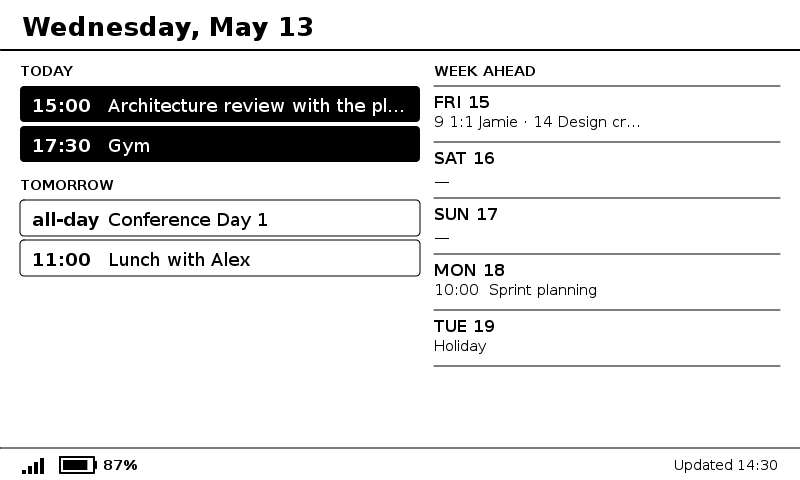
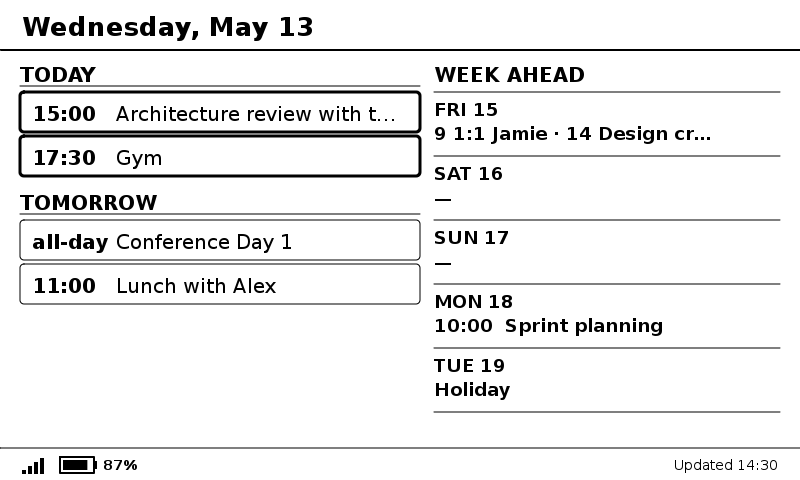
Update styling

Changed region(s): [[0.0, 0.125, 0.9688, 0.875]]

diff --git a/server/internal/calendar/render.go b/server/internal/calendar/render.go
@@ -37,32 +37,35 @@ const (
 
 	// Font sizes.
 	fontSizeHeader      = 26.0
-	fontSizeSectionHead = 14.0
-	fontSizeBody        = 18.0
-	fontSizeWeekDay     = 16.0
-	fontSizeWeekSummary = 15.0
-	fontSizeWeekMore    = 12.0
+	fontSizeSectionHead = 20.0
+	fontSizeBody        = 20.0
+	fontSizeWeekDay     = 18.0
+	fontSizeWeekSummary = 18.0
+	fontSizeWeekMore    = 14.0
 	fontSizeFooter      = 14.0
 	fontDPI             = 72.0
 
 	// Chip (event pill) geometry.
-	chipH            = 36.0
-	chipGap          = 4.0
-	chipCorner       = 4.0
-	chipTimeX        = 12.0
-	chipTitleX       = 88.0
-	chipTextOffY     = 8.0
+	chipH             = 40.0
+	chipGap           = 4.0
+	chipCorner        = 4.0
+	chipTimeX         = 12.0
+	chipTitleX        = 96.0
+	chipTextOffY      = 9.0
 	chipTitleRightPad = 12.0
+	todayChipLineW    = 3.0
+	tomorrowChipLineW = 1.0
 
 	// Section spacing.
-	sectionGapY     = 24.0
-	tomorrowGap     = 10.0
-	weekHeaderGap   = 24.0
-	weekRowH        = 56.0
+	sectionGapY      = 30.0
+	sectionHeadRuleY = 24.0
+	tomorrowGap      = 10.0
+	weekHeaderGap    = 30.0
+	weekRowH        = 64.0
 	weekTextOffY    = 6.0
-	weekDashOffY    = 30.0
-	weekSummaryOffY = 26.0
-	weekMoreOffY    = 44.0
+	weekDashOffY    = 32.0
+	weekSummaryOffY = 30.0
+	weekMoreOffY    = 50.0
 
 	// Footer constants.
 	footerH           = 32.0
@@ -344,6 +347,9 @@ func drawTodayPanel(dc *gg.Context, d displayData, startY float64) float64 {
 	y := startY
 	dc.SetFontFace(face(fontSizeSectionHead, true))
 	drawTopLeft(dc, "TODAY", leftX, y)
+	dc.SetLineWidth(1)
+	dc.DrawLine(leftX, y+sectionHeadRuleY, leftX+leftW, y+sectionHeadRuleY)
+	dc.Stroke()
 	y += sectionGapY
 	if len(d.Today) == 0 {
 		dc.SetFontFace(face(fontSizeBody, false))
@@ -351,7 +357,7 @@ func drawTodayPanel(dc *gg.Context, d displayData, startY float64) float64 {
 		y += chipH + chipGap
 	} else {
 		for _, ev := range d.Today {
-			drawFilledChip(dc, leftX, y, leftW, chipH, ev)
+			drawChip(dc, leftX, y, leftW, chipH, ev, todayChipLineW)
 			y += chipH + chipGap
 		}
 	}
@@ -362,9 +368,12 @@ func drawTomorrowPanel(dc *gg.Context, d displayData, startY float64) {
 	y := startY
 	dc.SetFontFace(face(fontSizeSectionHead, true))
 	drawTopLeft(dc, "TOMORROW", leftX, y)
+	dc.SetLineWidth(1)
+	dc.DrawLine(leftX, y+sectionHeadRuleY, leftX+leftW, y+sectionHeadRuleY)
+	dc.Stroke()
 	y += sectionGapY
 	for _, ev := range d.Tomorrow {
-		drawOutlinedChip(dc, leftX, y, leftW, chipH, ev)
+		drawChip(dc, leftX, y, leftW, chipH, ev, tomorrowChipLineW)
 		y += chipH + chipGap
 	}
 	if len(d.Tomorrow) == 0 {
@@ -385,15 +394,15 @@ func drawWeekAheadPanel(dc *gg.Context, d displayData, contentTop float64) {
 		dc.SetFontFace(face(fontSizeWeekDay, true))
 		label := strings.ToUpper(ds.Date.Format("Mon")) + " " + ds.Date.Format("2")
 		drawTopLeft(dc, label, rightX, y+weekTextOffY)
-		dc.SetFontFace(face(fontSizeWeekSummary, false))
+		dc.SetFontFace(face(fontSizeWeekSummary, true))
 		if ds.Summary == "" {
 			drawTopLeft(dc, "—", rightX, y+weekDashOffY)
 		} else {
-			drawTopLeft(dc, ds.Summary, rightX, y+weekSummaryOffY)
+			drawTopLeft(dc, truncateToWidth(dc, ds.Summary, rightW), rightX, y+weekSummaryOffY)
 		}
 		if ds.More != "" {
 			dc.SetFontFace(face(fontSizeWeekMore, false))
-			drawTopLeft(dc, ds.More, rightX, y+weekMoreOffY)
+			drawTopLeft(dc, truncateToWidth(dc, ds.More, rightW), rightX, y+weekMoreOffY)
 		}
 		y += weekRowH
 	}
@@ -429,21 +438,9 @@ func drawTopLeft(dc *gg.Context, s string, x, y float64) {
 	dc.DrawStringAnchored(s, x, y, 0, 1)
 }
 
-func drawFilledChip(dc *gg.Context, x, y, w, h float64, ev event) {
+func drawChip(dc *gg.Context, x, y, w, h float64, ev event, lineW float64) {
 	dc.SetRGB(0, 0, 0)
-	dc.DrawRoundedRectangle(x, y, w, h, chipCorner)
-	dc.Fill()
-	dc.SetRGB(1, 1, 1)
-	dc.SetFontFace(face(fontSizeBody, true))
-	drawTopLeft(dc, chipTimeString(ev), x+chipTimeX, y+chipTextOffY)
-	dc.SetFontFace(face(fontSizeBody, false))
-	drawTopLeft(dc, truncateToWidth(dc, ev.Title, w-chipTitleX-chipTitleRightPad), x+chipTitleX, y+chipTextOffY)
-	dc.SetRGB(0, 0, 0)
-}
-
-func drawOutlinedChip(dc *gg.Context, x, y, w, h float64, ev event) {
-	dc.SetRGB(0, 0, 0)
-	dc.SetLineWidth(1)
+	dc.SetLineWidth(lineW)
 	dc.DrawRoundedRectangle(x, y, w, h, chipCorner)
 	dc.Stroke()
 	dc.SetFontFace(face(fontSizeBody, true))
